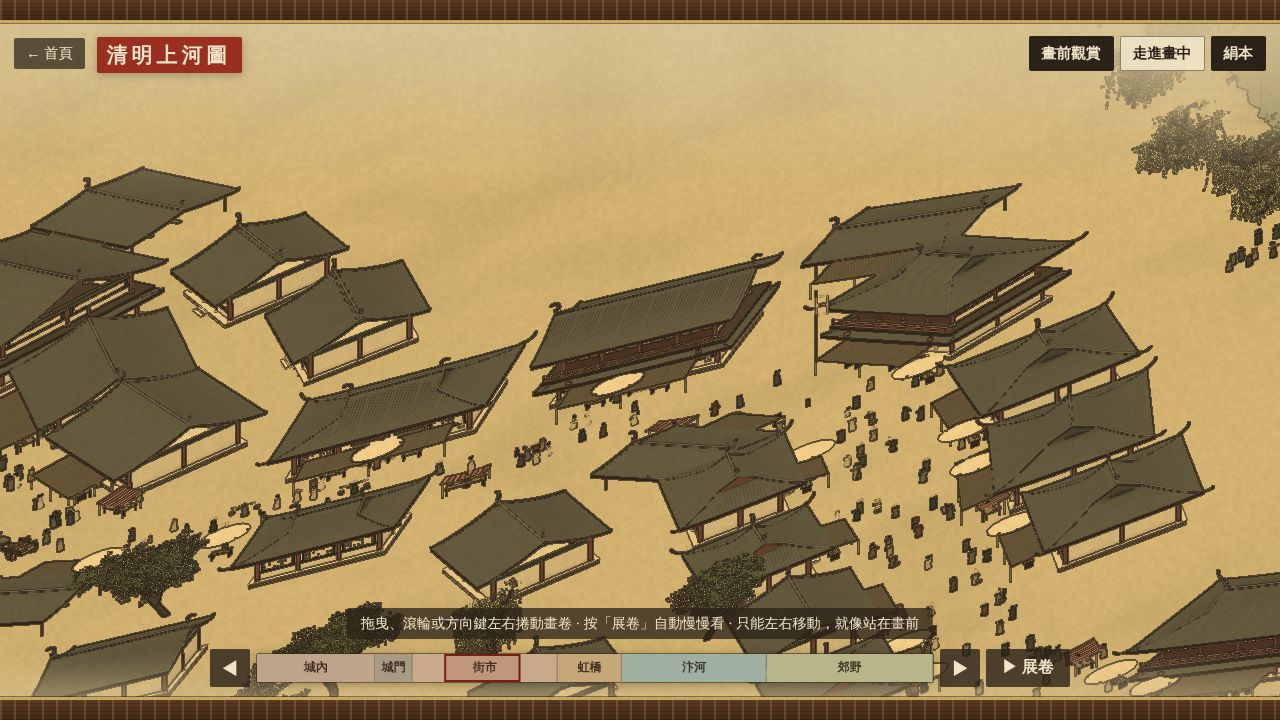
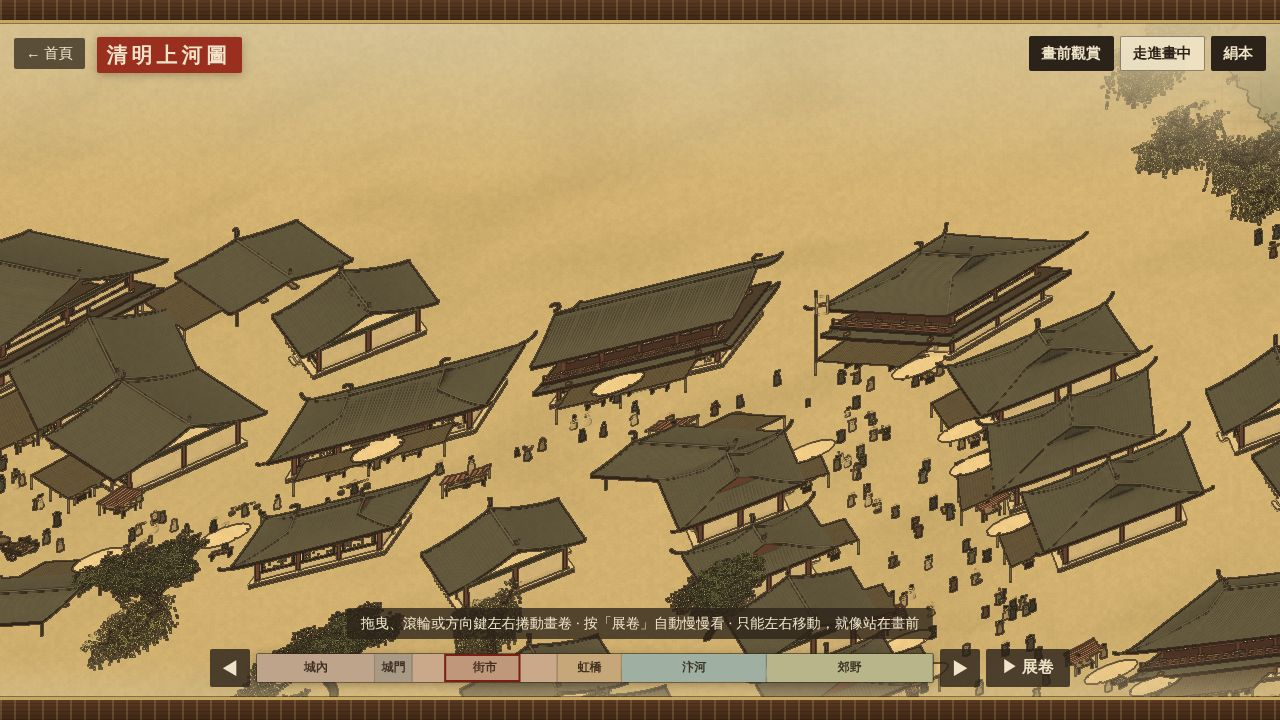
清明上河圖：城門樓與郊野的樹照原畫重做
- 城門：高大收分的梯形城台、平頂抹角的過梁式門洞、南面一道長階梯與欄杆、
  台頂一圈木欄杆，台上一座三開間單簷歇山城樓（帶平座外廊）
- 原畫城門兩側沒有城牆：畫前模式隱藏城牆，走進畫中仍保留（地圖不變）
- 城門四周加一圈老樹
- 郊野改成早春的樹：光禿的蟹爪枝老樹、粗短扭曲的截頂老柳冒出細長新枝，
  細枝用墨線畫，柳梢一點嫩芽

Claude-Session: https://claude.ai/code/session_01A8bzoshNc2AoFtgcasqWGZ

diff --git a/qingming/js/world.js b/qingming/js/world.js
@@ -5,6 +5,7 @@ import * as TX from "../../xishan/js/tex.js";
 import { buildBuilding, buildStall } from "../../xishan/js/build.js";
 import { buildTrees, buildReeds } from "../../xishan/js/plants.js";
 import * as P from "./plan.js";
+import { buildSpringTrees } from "./trees.js";
 
 /* ---------------- 茅草（郊野茅屋） ---------------- */
 let thatchMat;
@@ -140,40 +141,74 @@ export function buildCreekBridge(b) {
 }
 
 /* ---------------- 城門 ---------------- */
-export function buildGate(b, group) {
-  const G = P.gate, y0 = P.LAND - 0.5;
+export function buildGate(b, group, wallB = b) {
+  const G = P.gate, y0 = P.LAND - 0.3, H = G.h;
+  // 城台：四面收分的梯形台，門洞是平頂抹角（宋式過梁門），沿 x 穿過
   const shape = new THREE.Shape();
-  const W = G.dz / 2, R = G.tunnel / 2, spring = 4.0;
-  shape.moveTo(-W, 0); shape.lineTo(W, 0); shape.lineTo(W - 0.8, G.h); shape.lineTo(-W + 0.8, G.h); shape.lineTo(-W, 0);
+  const W = G.dz / 2, bat = 1.6;
+  shape.moveTo(-W, 0); shape.lineTo(W, 0); shape.lineTo(W - bat, H); shape.lineTo(-W + bat, H); shape.lineTo(-W, 0);
+  const R = G.tunnel / 2, wall = 6.6, top = 8.6, topW = 1.9;
   const hole = new THREE.Path();
-  hole.moveTo(-R, 0); hole.lineTo(R, 0); hole.lineTo(R, spring); hole.absarc(0, spring, R, 0, Math.PI, false); hole.lineTo(-R, 0);
+  hole.moveTo(-R, 0); hole.lineTo(R, 0); hole.lineTo(R, wall); hole.lineTo(topW, top); hole.lineTo(-topW, top); hole.lineTo(-R, wall); hole.lineTo(-R, 0);
   shape.holes.push(hole);
-  const g = new THREE.ExtrudeGeometry(shape, { depth: G.dx, bevelEnabled: false, curveSegments: 18 });
-  // 擠出方向是 +z，轉成沿 x（路穿過城門的方向）
+  const g = new THREE.ExtrudeGeometry(shape, { depth: G.dx, bevelEnabled: false });
   g.translate(0, 0, -G.dx / 2);
+  // 東西兩面也收分：把擠出的兩端往內縮一點
+  const pos = g.attributes.position;
+  for (let i = 0; i < pos.count; i++) { const yy = pos.getY(i), zz = pos.getZ(i); pos.setZ(i, zz * (1 - (yy / H) * (bat / (G.dx / 2)))); }
+  g.computeVertexNormals();
   g.rotateY(Math.PI / 2);
   const uvs = g.attributes.uv; for (let i = 0; i < uvs.count; i++) uvs.setXY(i, uvs.getX(i) / 3, uvs.getY(i) / 3);
   b.add("stone", g, M([G.x, y0, G.z]));
-  b.add("stoneLight", box(G.dx + 0.4, 0.3, G.dz - 1.2), M([G.x, y0 + G.h + 0.15, G.z]));
-  // 城樓（五開間，重簷歇山），屋脊沿 z
-  const top = y0 + G.h + 0.3, PM = M([G.x, top, G.z], [0, Math.PI / 2, 0]);
-  const bw = G.dz - 6, bd = G.dx - 3.5;
-  for (let i = 0; i <= 5; i++) for (const z of [-bd / 2, bd / 2]) {
-    const x = -bw / 2 + (bw * i) / 5;
-    b.add("red", cyl(0.3, 0.32, 5.2, 10), M([x, 2.6, z]), PM);
+  // 門洞上的木過梁、門框
+  for (const s of [-1, 1]) {
+    const x = G.x + s * (G.dx / 2 - 0.2);
+    b.add("woodDark", box(0.3, 0.35, topW * 2 + 0.6), M([x, y0 + top + 0.1, G.z]));
+    for (const zz of [-R, R]) b.add("woodDark", box(0.3, wall, 0.3), M([x, y0 + wall / 2, G.z + zz]));
+    for (const zz of [-1, 1]) b.add("woodDark", rod([x, y0 + wall, G.z + zz * R], [x, y0 + top, G.z + zz * topW], 0.14, 0.14, 5));
   }
-  b.add("plaster", box(bw, 4.2, bd - 1.4), M([0, 2.4, 0]), PM);
-  b.add("green", box(bw + 0.6, 0.5, bd + 0.5), M([0, 5.3, 0]), PM);
-  for (const s of [-1, 1]) for (let i = 0; i < 5; i++) b.add("lattice2", new THREE.PlaneGeometry(bw / 5 - 0.6, 2.4), M([-bw / 2 + (bw / 5) * (i + 0.5), 2.8, s * (bd / 2 - 0.68)], [0, s > 0 ? 0 : Math.PI, 0]), PM);
-  roof(b, { ex: bw / 2 + 2.6, ez: bd / 2 + 2.6, H: 2.6, type: "pent", ring: 0.5, lift: 1.2 }, PM.clone().multiply(M([0, 5.6, 0])));
-  b.add("plaster", box(bw - 2, 2.2, bd - 2), M([0, 7.2, 0]), PM);
-  roof(b, { ex: bw / 2 + 1.6, ez: bd / 2 + 1.8, H: 4.2, type: "xieshan", lift: 1.4, ridgeH: 0.7 }, PM.clone().multiply(M([0, 8.4, 0])));
-  // 兩側殘缺的夯土城牆
+  // 台頂：鋪磚、四周木欄杆
+  const tx = G.dx / 2 - bat, tz = G.dz / 2 - bat, yt = y0 + H;
+  b.add("stoneLight", box(tx * 2, 0.25, tz * 2), M([G.x, yt + 0.12, G.z]));
+  const rail = (ax, az, bx, bz) => {
+    const L = Math.hypot(bx - ax, bz - az), n = Math.ceil(L / 1.6);
+    for (let i = 0; i <= n; i++) b.add("woodDark", box(0.12, 1.0, 0.12), M([ax + ((bx - ax) * i) / n, yt + 0.75, az + ((bz - az) * i) / n]));
+    for (const h of [0.6, 1.2]) b.add("woodDark", rod([ax, yt + h, az], [bx, yt + h, bz], 0.05, 0.05, 4));
+  };
+  const X0 = G.x - tx + 0.2, X1 = G.x + tx - 0.2, Z0 = G.z - tz + 0.2, Z1 = G.z + tz - 0.2;
+  rail(X0, Z0, X1, Z0); rail(X0, Z1, X1 - 3.2, Z1); rail(X0, Z0, X0, Z1); rail(X1, Z0, X1, Z1);
+  // 南面一道長階梯（從西邊地面斜上到台頂東側），外側有欄杆
+  const sw = G.stairW, zS = G.z + G.dz / 2 + sw / 2 - 0.2, n = Math.round(H / 0.25);
+  const xa = G.x - G.dx / 2 + 1.0, xb = G.x + G.dx / 2 - 2.2;
+  for (let i = 0; i < n; i++) {
+    const t = (i + 0.5) / n, x = xa + (xb - xa) * t, hh = H * (i + 1) / n;
+    b.add("steps", box((xb - xa) / n + 0.02, hh, sw), M([x, y0 + hh / 2, zS - bat * (hh / H)]));
+  }
+  // 階梯外側欄杆
+  const zr = zS + sw / 2 - 0.1;
+  for (const h of [0.6, 1.1]) b.add("woodDark", rod([xa, y0 + h, zr], [xb, y0 + H + h, zr - bat], 0.05, 0.05, 4));
+  for (let i = 0; i <= 12; i++) { const t = i / 12; b.add("woodDark", box(0.1, 1.1, 0.1), M([xa + (xb - xa) * t, y0 + H * t + 0.55, zr - bat * t])); }
+  // 城樓：平座（有欄杆的外廊）上一座三開間、單簷歇山
+  const bw = 14, bd = 9, yb = yt + 0.25;
+  const PM = M([G.x - 0.3, yb, G.z - 1.6]);          // 樓身面寬沿 x（面對畫面）
+  b.add("woodDark", box(bw + 2.6, 0.45, bd + 2.6), M([0, 0.9, 0]), PM);
+  for (const [sx, sz] of [[-1, -1], [1, -1], [-1, 1], [1, 1]]) b.add("woodDark", box(0.3, 0.9, 0.3), M([sx * (bw / 2 + 1.1), 0.45, sz * (bd / 2 + 1.1)]), PM);
+  const R2 = (ax, az, bx, bz) => { for (const h of [1.6, 2.1]) b.add("red", rod([ax, h, az], [bx, h, bz], 0.05, 0.05, 4), null, PM); const L = Math.hypot(bx - ax, bz - az), m = Math.ceil(L / 1.2); for (let i = 0; i <= m; i++) b.add("woodDark", box(0.08, 1.0, 0.08), M([ax + ((bx - ax) * i) / m, 1.6, az + ((bz - az) * i) / m]), PM); };
+  const ex = bw / 2 + 1.2, ez = bd / 2 + 1.2;
+  R2(-ex, ez, ex, ez); R2(-ex, -ez, ex, -ez); R2(-ex, -ez, -ex, ez); R2(ex, -ez, ex, ez);
+  for (let i = 0; i <= 3; i++) for (const z of [-bd / 2, bd / 2]) b.add("wood", cyl(0.24, 0.26, 4.2, 8), M([-bw / 2 + (bw * i) / 3, 1.1 + 2.1, z]), PM);
+  for (const z of [-bd / 2, bd / 2]) for (let i = 0; i < 3; i++) {
+    b.add("lattice2", new THREE.PlaneGeometry(bw / 3 - 0.5, 2.2), M([-bw / 2 + (bw / 3) * (i + 0.5), 3.0, z * 0.96], [0, z > 0 ? 0 : Math.PI, 0]), PM);
+    b.add("woodDark", box(bw / 3 - 0.4, 0.9, 0.1), M([-bw / 2 + (bw / 3) * (i + 0.5), 1.55, z * 0.97]), PM);
+  }
+  b.add("plaster", box(0.2, 3.4, bd), M([-bw / 2, 2.8, 0]), PM); b.add("plaster", box(0.2, 3.4, bd), M([bw / 2, 2.8, 0]), PM);
+  b.add("woodDark", box(bw + 0.5, 0.5, bd + 0.5), M([0, 5.45, 0]), PM);
+  roof(b, { ex: bw / 2 + 2.0, ez: bd / 2 + 2.0, H: 3.4, type: "xieshan", lift: 0.55, ridgeH: 0.45 }, PM.clone().multiply(M([0, 5.7, 0])));
+  // 兩側的城牆（原畫沒有畫城牆；走進畫中時保留，畫前模式會隱藏）
   for (const s of [-1, 1]) {
     const len = 30;
-    const wall = new THREE.BoxGeometry(3.2, G.h - 1.5, len);
-    b.add("stone", wall, M([G.x, y0 + (G.h - 1.5) / 2, G.z + s * (G.dz / 2 + len / 2)]));
-    for (let k = 0; k < 9; k++) b.add("stone", box(3.4, 1.0, 1.6), M([G.x, y0 + G.h - 1.0, G.z + s * (G.dz / 2 + 2 + k * 3.2)]));
+    wallB.add("stone", new THREE.BoxGeometry(3.2, H - 3, len), M([G.x, y0 + (H - 3) / 2, G.z + s * (G.dz / 2 + len / 2)]));
+    for (let k = 0; k < 9; k++) wallB.add("stone", box(3.4, 1.0, 1.6), M([G.x, y0 + H - 3.5, G.z + s * (G.dz / 2 + 2 + k * 3.2)]));
   }
 }
 
@@ -227,7 +262,9 @@ export function buildWorld(scene) {
   buildTerrain(scene);
   const bG = new Batch(); buildGround(bG); buildBridge(bG); buildCreekBridge(bG);
   const signs = new THREE.Group();
-  buildGate(bG, signs);
+  const bWall = new Batch();
+  buildGate(bG, signs, bWall);
+  const gateWalls = new THREE.Group(); bWall.build(gateWalls); scene.add(gateWalls);
   const g1 = new THREE.Group(); const bridgeMeshes = bG.build(g1); scene.add(g1);
   const bB = new Batch(), bT = new Batch();
   for (const B of P.buildings) buildBuilding(B.thatch ? bT : bB, signs, { ...B, sign: undefined }, P.terrainH(B.x, B.z));
@@ -267,7 +304,9 @@ export function buildWorld(scene) {
     signs.add(m);
   }
   scene.add(signs);
-  buildTrees(scene, P.trees, (x, z) => P.terrainH(x, z));
+  const spring = P.trees.filter((t) => t.type === "bare" || t.type === "oldwillow");
+  buildTrees(scene, P.trees.filter((t) => !spring.includes(t)), (x, z) => P.terrainH(x, z));
+  buildSpringTrees(scene, spring, (x, z) => P.terrainH(x, z));
   const reeds = [], r = P.rng(9);
   for (let s = 10; s < P.river.len; s += 6) for (const side of [-1, 1]) {
     if (Math.abs(s - P.bridge.s) < 80 || r() < 0.5) continue;
@@ -275,5 +314,5 @@ export function buildWorld(scene) {
     reeds.push({ x: p.x + side * p.nx * o, z: p.z + side * p.nz * o, y: -0.2, rot: r() * 3, s: 0.8 + r() * 0.7 });
   }
   buildReeds(scene, reeds);
-  return { bridgeMeshes };
+  return { bridgeMeshes, gateWalls };
 }

diff --git a/qingming/js/trees.js b/qingming/js/trees.js
@@ -1,0 +1,82 @@
+// 清明上河圖：早春的郊野樹（照原畫）——光禿的老樹、截頂的老柳。細枝用墨線（Line）畫，像畫裡的筆觸。
+import * as THREE from "three";
+import { Batch, tube, mat } from "../../xishan/js/geo.js";
+import { rng } from "./plan.js";
+
+const V = THREE.Vector3;
+/**
+ * list: [{type: "bare" | "oldwillow", x, z, sc, rot, seed}]
+ * 粗的枝幹做成樹皮圓管，細枝（半徑 < 6 公分）做成線段
+ */
+export function buildSpringTrees(scene, list, groundAt) {
+  const wood = new Batch();
+  const twigs = [], shoots = [], buds = [];
+  for (const T of list) {
+    const r = rng(T.seed), y = groundAt(T.x, T.z) - 0.15, sc = T.sc || 1;
+    const jit = (d, a) => d.add(new V((r() - 0.5) * a, (r() - 0.5) * a * 0.4, (r() - 0.5) * a)).normalize();
+    const limb = (p, d, len, rad, depth, up) => {
+      const pts = [p.clone()];
+      let q = p.clone(); const dd = d.clone();
+      for (let i = 1; i <= 3; i++) { jit(dd, 0.7); dd.y += up; dd.normalize(); q = q.clone().addScaledVector(dd, len / 3); pts.push(q); }
+      if (rad > 0.06) wood.add("bark", tube(pts, rad, 8, rad > 0.2 ? 6 : 4));
+      else for (let i = 0; i < pts.length - 1; i++) twigs.push(pts[i], pts[i + 1]);
+      if (depth <= 0) return;
+      const kids = depth >= 3 ? 2 + (r() < 0.5 ? 1 : 0) : 2 + (r() < 0.7 ? 1 : 0);
+      for (let k = 0; k < kids; k++) {
+        const at = pts[Math.min(pts.length - 1, 1 + Math.floor(r() * pts.length))];
+        const a = r() * Math.PI * 2, sp = 0.6 + r() * 0.6;
+        // 蟹爪枝：分岔角大、枝條曲折
+        const nd = dd.clone().multiplyScalar(0.8).add(new V(Math.cos(a) * sp, 0.25 + r() * 0.35, Math.sin(a) * sp)).normalize();
+        limb(at, nd, len * (0.62 + r() * 0.16), rad * 0.58, depth - 1, up * 0.8);
+      }
+    };
+    if (T.type === "oldwillow") {
+      // 截頂老柳：粗短、扭曲的樹幹，頂上一個大樹瘤，冒出一大把細長的新枝
+      const H = (3.4 + r() * 1.4) * sc, R0 = (0.48 + r() * 0.2) * sc;
+      const lean = new V((r() - 0.5) * 0.5, 1, (r() - 0.5) * 0.5).normalize();
+      const pts = [new V(T.x, y, T.z)];
+      for (let i = 1; i <= 4; i++) pts.push(pts[0].clone().addScaledVector(lean, (H * i) / 4).add(new V((r() - 0.5) * 0.5, 0, (r() - 0.5) * 0.5)));
+      wood.add("bark", tube(pts, R0, 12, 8));
+      wood.add("bark", tube([pts[0], pts[1].clone().add(new V(0.15, 0, 0.1)), pts[2]], R0 * 1.18, 6, 7));
+      const head = pts[4];
+      for (let k = 0; k < 5; k++) { const g = new THREE.SphereGeometry(R0 * (0.75 + r() * 0.5), 8, 6); g.translate(head.x + (r() - 0.5) * R0 * 1.6, head.y + (r() - 0.3) * R0, head.z + (r() - 0.5) * R0 * 1.6); wood.add("bark", g); }
+      // 幾根粗一點的枝
+      for (let k = 0; k < 3; k++) { const a = r() * 6.3; limb(head, new V(Math.cos(a) * 0.6, 1, Math.sin(a) * 0.6).normalize(), (1.6 + r()) * sc, 0.12 * sc, 1, 0.1); }
+      // 新枝：從樹瘤往上、往外散開，梢頭微垂
+      const n = 70 + Math.floor(r() * 30);
+      for (let k = 0; k < n; k++) {
+        const a = r() * Math.PI * 2, sp = 0.25 + r() * 0.9, L = (2.8 + r() * 3.2) * sc;
+        let p = head.clone().add(new V((r() - 0.5) * R0 * 1.6, R0 * 0.4, (r() - 0.5) * R0 * 1.6));
+        const d = new V(Math.cos(a) * sp, 1, Math.sin(a) * sp).normalize();
+        for (let i = 0; i < 5; i++) {
+          const q = p.clone().addScaledVector(d, L / 5);
+          shoots.push(p, q); p = q;
+          d.y -= 0.16; d.x *= 1.05; d.z *= 1.05; d.normalize();
+        }
+        if (r() < 0.5) buds.push(p.clone());
+      }
+    } else {
+      // 光禿的老樹：歪斜的樹幹、蟹爪枝
+      const H = (4.2 + r() * 2.4) * sc;
+      const d = new V((r() - 0.5) * 0.6, 1, (r() - 0.5) * 0.6).normalize();
+      limb(new V(T.x, y, T.z), d, H, (0.3 + r() * 0.12) * sc, 5, 0.12);
+    }
+  }
+  const group = new THREE.Group();
+  wood.build(group, { cast: true, receive: true });
+  const line = (pts, color) => {
+    const g = new THREE.BufferGeometry().setFromPoints(pts);
+    const m = new THREE.LineSegments(g, new THREE.LineBasicMaterial({ color }));
+    m.frustumCulled = false; group.add(m); return m;
+  };
+  if (twigs.length) line(twigs, 0x2f271f);
+  if (shoots.length) line(shoots, 0x4f4a2c);
+  // 柳梢冒出的嫩芽：淡淡的一點黃綠
+  if (buds.length) {
+    const g = new THREE.BufferGeometry().setFromPoints(buds);
+    const m = new THREE.Points(g, new THREE.PointsMaterial({ color: 0x9aa25a, size: 0.35, sizeAttenuation: true }));
+    m.frustumCulled = false; group.add(m);
+  }
+  scene.add(group);
+  return group;
+}

diff --git a/qingming/js/main.js b/qingming/js/main.js
@@ -148,6 +148,7 @@ async function build() {
   progress(0.25, "架虹橋、築城門、蓋店鋪…"); await tick();
   const w = buildWorld(scene);
   world.bridgeMeshes = w.bridgeMeshes;
+  world.gateWalls = w.gateWalls;
   progress(0.6, "放水…"); await tick();
   world.water = new Water(renderer, scene, { quality: LOW ? 0.5 : 0.8 });
   world.water.mesh.scale.set(1.0, 1, 1);
@@ -164,6 +165,7 @@ function setMode(m, opt = {}) {
   document.body.dataset.mode = m;
   $("#menu").hidden = true;
   sun.castShadow = m === "walk";
+  if (world.gateWalls) world.gateWalls.visible = m === "walk";     // 原畫的城門兩側沒有城牆
   sun.intensity = m === "walk" ? 2.2 : 1.5; hemi.intensity = m === "walk" ? 1.25 : 1.9;
   if (m === "paint") {
     camera = ortho;
